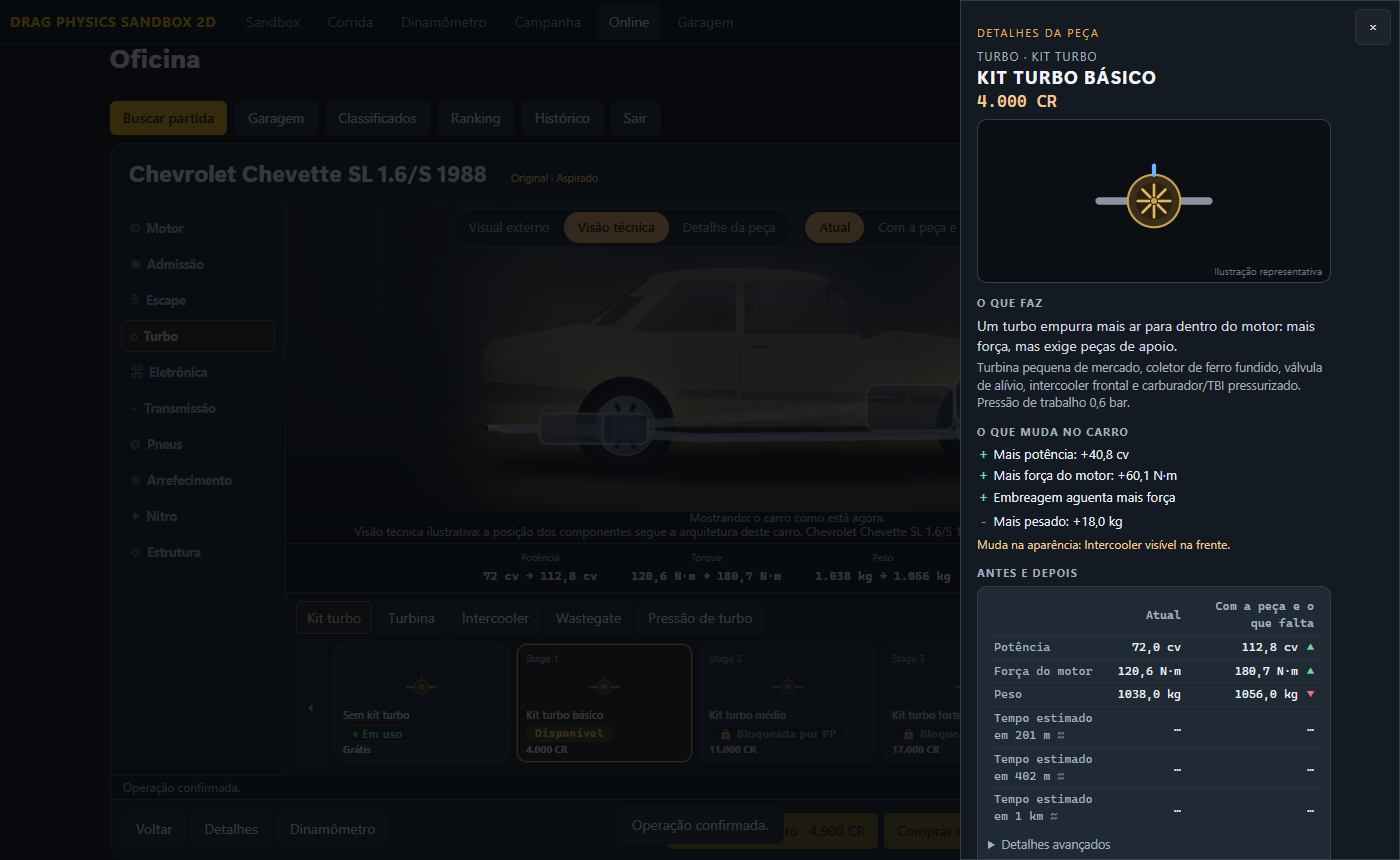
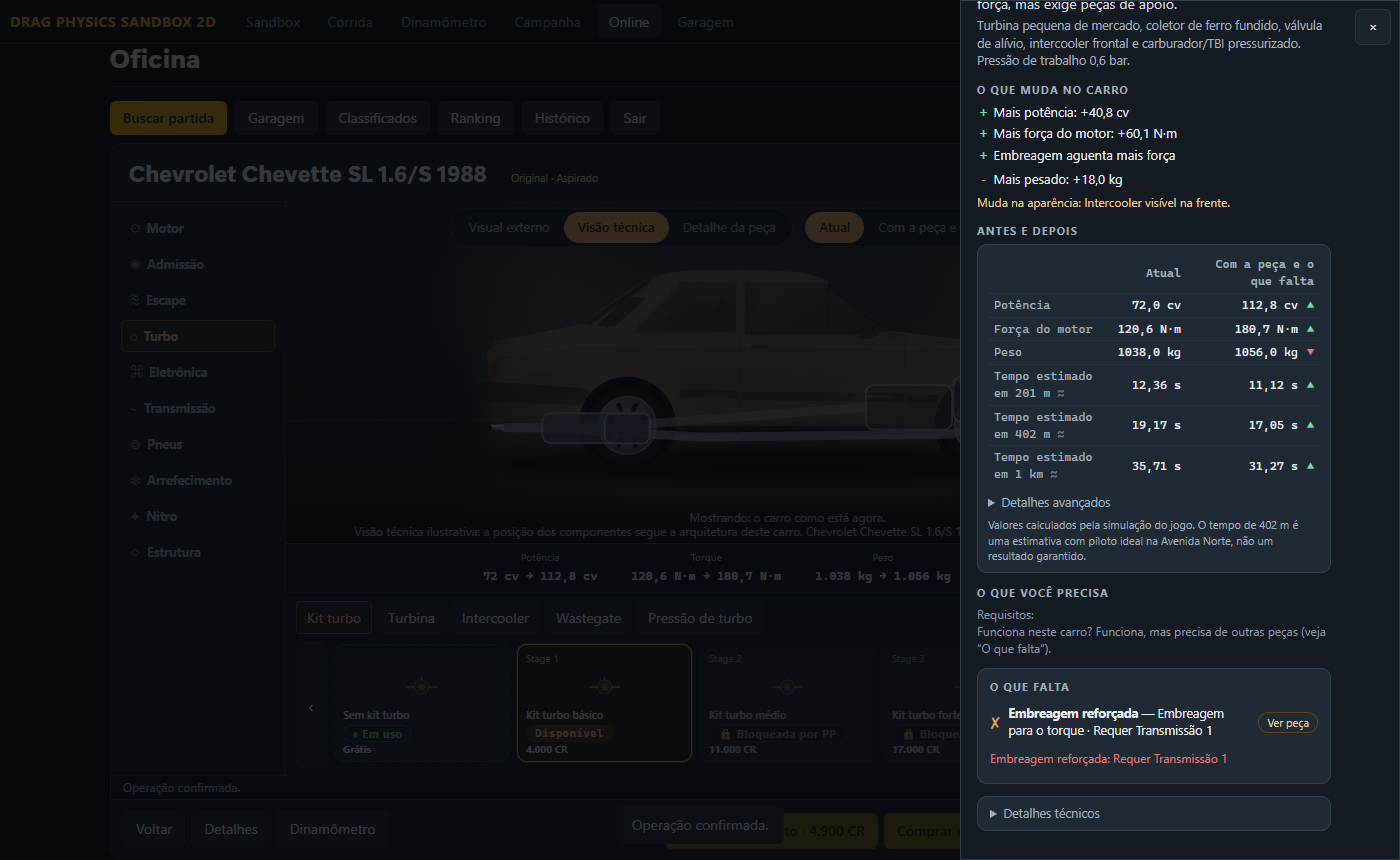
Mostrar a peça exigida na captura da oficina Online

Changed region(s): [[0.6757, 0.0, 0.9521, 0.9977], [0.8907, 0.4837, 0.9214, 0.5442]]

diff --git a/tests/online-browser/competitive.spec.ts b/tests/online-browser/competitive.spec.ts
@@ -262,7 +262,9 @@ test('oficina compartilhada confirma PP, compra, conjunto e restauração pelo s
   await expect(workshop.getByTestId('ws-overview')).toContainText('20.000 CR');
   await expect(workshop.getByTestId('ws-buy')).toBeDisabled();
   await open();
-  await expect(workshop.getByTestId('ws-req-clutch-reinforced')).toBeVisible();
+  const clutchRequirement = workshop.getByTestId('ws-req-clutch-reinforced');
+  await expect(clutchRequirement).toBeVisible();
+  await clutchRequirement.scrollIntoViewIfNeeded();
   await shot('02-requisitos-mecanicos');
   await close();
 
